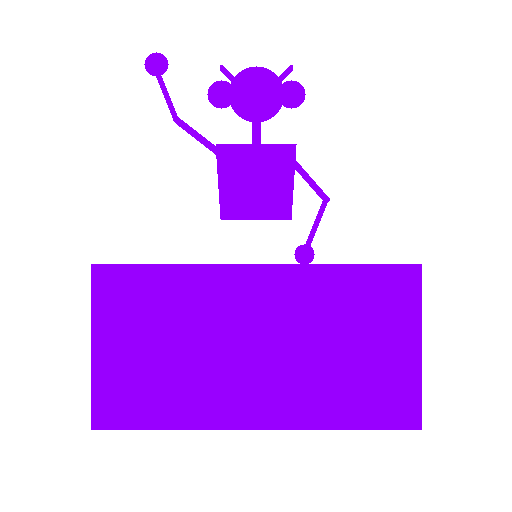
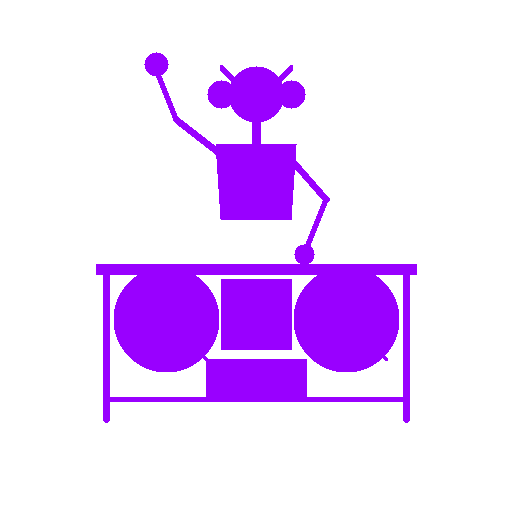
🎨 MainMenu 디자인 개선: 4명의 연주자 이미지 추가 (드럼/피아노/기타/DJ) + 네온 색상 배치

Changed region(s): [[0.1562, 0.5, 0.8438, 0.8438]]

diff --git a/My project/Assets/Scripts/UI/ProceduralImageGenerator.cs b/My project/Assets/Scripts/UI/ProceduralImageGenerator.cs
@@ -942,53 +942,21 @@ namespace AIBeat.UI
             // Detailed DJ - behind decks with headphones
             int cx = w / 2;
 
-            // === DJ FIGURE ===
-            // Head
-            DrawFilledCircle(pixels, w, cx, h - 95, 28, color);
+            // === 1. BOOTH LEGS (테이블 다리만) ===
+            DrawThickLine(pixels, w, cx - 150, h - 275, cx - 150, h - 420, color, 6);
+            DrawThickLine(pixels, w, cx + 150, h - 275, cx + 150, h - 420, color, 6);
+            // Cross bar
+            DrawThickLine(pixels, w, cx - 150, h - 400, cx + 150, h - 400, color, 4);
 
-            // Headphones
-            // Band over head
-            for (int x = cx - 35; x <= cx + 35; x++)
-            {
-                float t = (float)(x - (cx - 35)) / 70f;
-                int bandY = h - 70 - (int)(Mathf.Sin(t * Mathf.PI) * 25);
-                DrawThickLine(pixels, w, x, bandY, x, bandY + 3, color, 3);
-            }
-            // Ear cups
-            DrawFilledCircle(pixels, w, cx - 35, h - 95, 14, color);
-            DrawFilledCircle(pixels, w, cx + 35, h - 95, 14, color);
-
-            // Sunglasses/visor hint
-            DrawThickLine(pixels, w, cx - 20, h - 90, cx + 20, h - 90, color, 4);
-
-            // Neck
-            DrawThickLine(pixels, w, cx, h - 123, cx, h - 145, color, 8);
-
-            // Torso (leaning forward over decks)
-            DrawFilledTrapezoid(pixels, w, cx - 40, h - 145, cx + 40, h - 145, cx - 35, h - 220, cx + 35, h - 220, color);
-
-            // Left arm (raised, fist pump)
-            DrawThickLine(pixels, w, cx - 35, h - 155, cx - 80, h - 120, color, 6);
-            DrawThickLine(pixels, w, cx - 80, h - 120, cx - 100, h - 70, color, 5);
-            // Fist
-            DrawFilledCircle(pixels, w, cx - 100, h - 65, 12, color);
-
-            // Right arm (on mixer/crossfader)
-            DrawThickLine(pixels, w, cx + 35, h - 160, cx + 70, h - 200, color, 6);
-            DrawThickLine(pixels, w, cx + 70, h - 200, cx + 50, h - 250, color, 5);
-            // Hand on controls
-            DrawFilledCircle(pixels, w, cx + 48, h - 255, 10, color);
-
-            // === DJ BOOTH/DECKS ===
-            // Main table surface
-            DrawFilledRect(pixels, w, cx - 160, h - 275, cx + 160, h - 265, color);
+            // === 2. DJ BOOTH/DECKS (부스 위에 그림) ===
+            // Laptop/controller behind
+            DrawFilledRect(pixels, w, cx - 50, h - 400, cx + 50, h - 360, color);
 
             // Left turntable/CDJ
             DrawFilledCircle(pixels, w, cx - 90, h - 320, 50, color);
             DrawCircleOutline(pixels, w, cx - 90, h - 320, 50, color, 3);
             DrawCircleOutline(pixels, w, cx - 90, h - 320, 35, color, 2);
             DrawCircleOutline(pixels, w, cx - 90, h - 320, 15, color, 2);
-            // Spindle
             DrawFilledCircle(pixels, w, cx - 90, h - 320, 5, color);
             // Tonearm
             DrawThickLine(pixels, w, cx - 50, h - 360, cx - 70, h - 340, color, 3);
@@ -999,7 +967,6 @@ namespace AIBeat.UI
             DrawCircleOutline(pixels, w, cx + 90, h - 320, 50, color, 3);
             DrawCircleOutline(pixels, w, cx + 90, h - 320, 35, color, 2);
             DrawCircleOutline(pixels, w, cx + 90, h - 320, 15, color, 2);
-            // Spindle
             DrawFilledCircle(pixels, w, cx + 90, h - 320, 5, color);
             // Tonearm
             DrawThickLine(pixels, w, cx + 130, h - 360, cx + 110, h - 340, color, 3);
@@ -1020,20 +987,41 @@ namespace AIBeat.UI
             // Crossfader
             DrawFilledRect(pixels, w, cx - 25, h - 285, cx + 25, h - 280, color);
 
-            // Laptop/controller behind
-            DrawFilledRect(pixels, w, cx - 50, h - 400, cx + 50, h - 360, color);
-            // Screen glow
-            DrawFilledRect(pixels, w, cx - 45, h - 395, cx + 45, h - 365, color);
+            // Main table surface
+            DrawFilledRect(pixels, w, cx - 160, h - 275, cx + 160, h - 265, color);
 
-            // === BOOTH FRONT ===
-            // Front panel
-            DrawFilledRect(pixels, w, cx - 165, h - 265, cx + 165, h - 430, color);
-            // LED strip decoration
-            for (int i = 0; i < 10; i++)
+            // === 3. DJ FIGURE (맨 앞에 그림) ===
+            // Head
+            DrawFilledCircle(pixels, w, cx, h - 95, 28, color);
+
+            // Headphones
+            for (int x = cx - 35; x <= cx + 35; x++)
             {
-                int ledX = cx - 140 + i * 30;
-                DrawFilledCircle(pixels, w, ledX, h - 420, 4, color);
+                float t = (float)(x - (cx - 35)) / 70f;
+                int bandY = h - 70 - (int)(Mathf.Sin(t * Mathf.PI) * 25);
+                DrawThickLine(pixels, w, x, bandY, x, bandY + 3, color, 3);
             }
+            DrawFilledCircle(pixels, w, cx - 35, h - 95, 14, color);
+            DrawFilledCircle(pixels, w, cx + 35, h - 95, 14, color);
+
+            // Sunglasses
+            DrawThickLine(pixels, w, cx - 20, h - 90, cx + 20, h - 90, color, 4);
+
+            // Neck
+            DrawThickLine(pixels, w, cx, h - 123, cx, h - 145, color, 8);
+
+            // Torso
+            DrawFilledTrapezoid(pixels, w, cx - 40, h - 145, cx + 40, h - 145, cx - 35, h - 220, cx + 35, h - 220, color);
+
+            // Left arm (raised, fist pump)
+            DrawThickLine(pixels, w, cx - 35, h - 155, cx - 80, h - 120, color, 6);
+            DrawThickLine(pixels, w, cx - 80, h - 120, cx - 100, h - 70, color, 5);
+            DrawFilledCircle(pixels, w, cx - 100, h - 65, 12, color);
+
+            // Right arm (on mixer)
+            DrawThickLine(pixels, w, cx + 35, h - 160, cx + 70, h - 200, color, 6);
+            DrawThickLine(pixels, w, cx + 70, h - 200, cx + 50, h - 250, color, 5);
+            DrawFilledCircle(pixels, w, cx + 48, h - 255, 10, color);
         }
 
         // ==================================================================================
